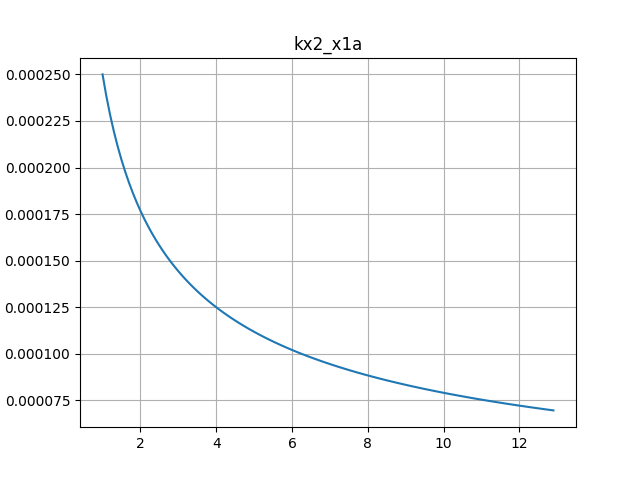
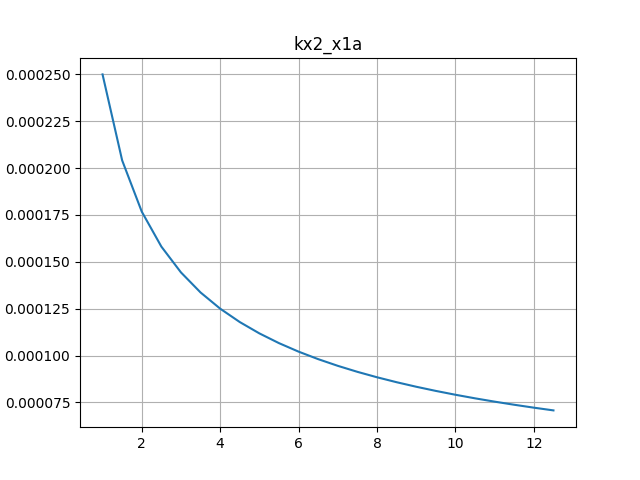
new plots

diff --git a/ode/serca_plot.py b/ode/serca_plot.py
@@ -1,12 +1,13 @@
 from scipy.integrate import *
-from scipy.optimize import *
 from matplotlib.pyplot import *
 from math import *
 import numpy as np
 
-
 cai = 100.0e-9
 cae = 1.0e-6
+
+def f(m):
+	return m**(2.0/3.0) #multiplier 
 
 # Reaction Rates
 k_orig={
@@ -15,19 +16,17 @@ k_orig={
 	'kx1a_x1' : 83.666,
 	'kx2_x1a' : 2*83.666,
 	'kx2_y2' : 0.6,
-	'ky2_x2' : 4.118,
+	'ky2_x2' : 4.118, #corrected
 	'ky2_y1a' : 2*30.015,
 	'ky1a_y1' : 30.015,
 	'ky1a_y2' : 1.0e5,
 	'ky1_y1a' : 2*1.0e5,
 	'ky1_x1' : 0.4,
-	'kx1_y1' : 1.20e-3
+	'kx1_y1' : 1.20e-3,
+	'kca' : 0#40.45 #update
 }
 k=k_orig.copy()
 
-#modification in reaction rates
-#kx2_y2=0.6
-#ky2_x2=4.118
 
 # Volume Normalisations
 vol_er = (3.9*0.1*0.1)
@@ -39,11 +38,11 @@ fvol_cyt = vol_cyt/vol_tot
 fvol_er = vol_er/vol_tot
 
 # SERCA ODE model
-def serca_ode(v,t):
+def serca_ode(v ,t):
 	fx1, fx1a, fx2,	fy1, fy1a, fy2, cae = v 
 	for key in k.keys():
 		exec(key + " = "+str(k[key]))
-	
+
 	dx1 = fx1*(-kx1_x1a*cai-kx1_y1)+fx1a*kx1a_x1+fy1*ky1_x1
 	dx1a = fx1a*(-kx1a_x2*cai-kx1a_x1)+fx1*cai*kx1_x1a+fx2*kx2_x1a
 	dx2 = fx2*(-kx2_y2-kx2_x1a)+fx1a*cai*kx1a_x2+fy2*ky2_x2
@@ -52,7 +51,7 @@ def serca_ode(v,t):
 	dy1a = fy1a*(-ky1a_y2*cae-ky1a_y1)+fy1*cae*ky1_y1a+fy2*ky2_y1a
 	dy2 = fy2*(-ky2_x2-ky2_y1a)+fy1a*cae*ky1a_y2+fx2*kx2_y2
 	
-	dcae = -cae*(fy1a*ky1a_y2 + fy1*ky1_y1a) + (fy1a*ky1a_y1 + fy2*ky2_y1a)
+	dcae = -cae*(fy1a*ky1a_y2 + fy1*ky1_y1a) + (fy1a*ky1a_y1 + fy2*ky2_y1a) + kca*(cai - cae)
 	#print dcae
 
 	return [dx1, dx1a, dx2, dy1, dy1a, dy2, dcae]
@@ -60,53 +59,15 @@ def serca_ode(v,t):
 # Initial Conditions
 #v0 = [0.75554529, 0.18054556, 0.010757505, 0.015718635, 0.026363904, 0.011069105, cae]
 #v0 = [0.79150804, 0.18920662, 0.011307258, 0.0023747239, 0.0039558979, 0.0016474684, cae]
-v0 = [0.4, 0.1, 0.0, 0.4, 0.1, 0.0, cae]
+v0 = [1, 0, 0.0, 0, 0, 0.0, cae]
 
-tstep = 1e-2
-tf = 100
-t = np.arange(0, tf, tstep)
+tstep = 1e-3
+tf = 1
+t = np.linspace(0, tf, tf/tstep+1)
 
 # Solve ODE
-
-f_range = np.arange(1,13,0.5)
-
-for par in k.keys():
-	eq_cae=[]
-    	k=k_orig.copy()
-    	for f in f_range:
-		k[par]=f*k_orig[par]
-		sol = odeint(serca_ode, v0, t)
-		print f,sol[-1,-1]
-		#print k
-		eq_cae.append(sol[-1,-1])
-	print np.shape(eq_cae), np.shape(f_range)
-	grid(True)
-	plot(f_range,eq_cae)
-	title(par)
-	savefig("./plots/"+par+".png")
-	close()
-
-	
-
-#main stuff 
-'''
-def func_tbs(f,eq_value):
-	print f[0]
-	k['kx2_y2']=f[0]*k_orig['kx2_y2']
-	sol = odeint(serca_ode, v0, t)
-	return sol[-1,-1]-eq_value
-
-SOL=fsolve(func_tbs,3.0,args=(5.0e-4,))
-
-'''
-'''	
-k['kx1a_x2']=3.0*k_orig['kx1a_x2']
 sol = odeint(serca_ode, v0, t)
-print 3.0,sol[-1,-1]
-print k
-plot(sol[:,-1])
-show()	
-	
+'''
 # calculate cae_ss, steady-state ER calcium at zero flux through pump
 # from Higgins et al., 2006 p.155
 K1 = sqrt((kx2_x1a*kx1a_x1)/(kx1_x1a*kx1a_x2))
@@ -117,18 +78,25 @@ K4 = kx1_y1/ky1_x1
 #print(K1**2*K2*K3**2*K4)
 cae_ss = cai/(K1*K3*sqrt(K2*K4))
 print("cae_ss = %g" %(cae_ss))
-print 'aaa'
 
 '''
-'''
-for i in range(6):
-	plot(t,sol[:,i])
-show()
+state_label=['x0','x1','x2','y0','y1','y2']
+case_label=['ER Normal','ER Overload(x2)','ER Overload(x3)']
+state_colors=['y','r','b','y']
+case_line=['-','--','-.']
+for m in [0,1,2]:
+	for par in ['kx1_x1a','kx1a_x2','kx2_y2']:
+		k[par]=f(m+1)*k_orig[par]
+	sol = odeint(serca_ode, v0, t)	
+	for i in [3,4,5]:
+		plot(t,sol[:,i],label=state_label[i]+':'+case_label[m],color=state_colors[i-3],ls=case_line[m])
+legend(loc='upper right')
+title("Serca Dynamics: y0, y1, y2")
+xlabel("Time (s)")
+ylabel("State fraction of SERCA")
+savefig('./plots/y0y1y2.png',dpi=200)
 close()
-'''
-#sol = odeint(serca_ode, v0, t)
+
 #grid(True)
 #plot(t,sol[:,6])
 #show()
-
-

diff --git a/ode/serca.py b/ode/serca.py
@@ -9,25 +9,22 @@ cae = 1.0e-6
 f=3.0**(2.0/3.0) #multiplier 
 
 # Reaction Rates
-kx1_x1a=2*1.0e8*f
-kx1a_x2=1.0e8*f
-kx1a_x1=83.666
-kx2_x1a=2*83.666
-kx2_y2=0.6*f
-ky2_x2=0.097
-ky2_y1a=2*30.015
-ky1a_y1=30.015
-ky1a_y2=1.0e5
-ky1_y1a=2*1.0e5
-ky1_x1=0.4
-kx1_y1=1.20e-3
-
-
-#modification in reaction rates
-
-ky2_x2=4.118
-kca = 40.45
-
+k_orig={
+	'kx1_x1a' : 2*1.0e8,
+	'kx1a_x2' : 1.0e8,
+	'kx1a_x1' : 83.666,
+	'kx2_x1a' : 2*83.666,
+	'kx2_y2' : 0.6,
+	'ky2_x2' : 4.118, #corrected
+	'ky2_y1a' : 2*30.015,
+	'ky1a_y1' : 30.015,
+	'ky1a_y2' : 1.0e5,
+	'ky1_y1a' : 2*1.0e5,
+	'ky1_x1' : 0.4,
+	'kx1_y1' : 1.20e-3,
+	'kca' : 0#40.45 #update
+}
+k=k_orig.copy()
 
 
 # Volume Normalisations
@@ -42,7 +39,9 @@ fvol_er = vol_er/vol_tot
 # SERCA ODE model
 def serca_ode(v ,t):
 	fx1, fx1a, fx2,	fy1, fy1a, fy2, cae = v 
-	
+	for key in k.keys():
+		exec(key + " = "+str(k[key]))
+
 	dx1 = fx1*(-kx1_x1a*cai-kx1_y1)+fx1a*kx1a_x1+fy1*ky1_x1
 	dx1a = fx1a*(-kx1a_x2*cai-kx1a_x1)+fx1*cai*kx1_x1a+fx2*kx2_x1a
 	dx2 = fx2*(-kx2_y2-kx2_x1a)+fx1a*cai*kx1a_x2+fy2*ky2_x2
@@ -61,8 +60,8 @@ def serca_ode(v ,t):
 #v0 = [0.79150804, 0.18920662, 0.011307258, 0.0023747239, 0.0039558979, 0.0016474684, cae]
 v0 = [1, 0, 0.0, 0, 0, 0.0, cae]
 
-tstep = 1e-2
-tf = 100
+tstep = 1e-3
+tf = 1
 t = np.linspace(0, tf, tf/tstep+1)
 
 # Solve ODE
@@ -78,14 +77,28 @@ K4 = kx1_y1/ky1_x1
 #print(K1**2*K2*K3**2*K4)
 cae_ss = cai/(K1*K3*sqrt(K2*K4))
 print("cae_ss = %g" %(cae_ss))
-
 '''
-#for i in range(6):
-	#plot(t,sol[:,i])
-#show()
-
-#close()
-
-grid(True)
-plot(t,sol[:,6])
+state_label=['x0','x1','x2','y0','y1','y2']
+for i in range(6):
+	plot(t,sol[:,i],label=state_label[i])
+legend()
 show()
+'''
+state_label=['x0','x1','x2','y0','y1','y2']
+case_label=['ER Normal','ER Overload(x2)','ER Overload(x3)']
+state_colors=['b','y']
+case_lines=['-','--','.']
+for m in [1,2,3]:
+	for par in ['kx1_x1a','kx1a_x2','kx2_y2':]
+		k[par]=f*k_orig[par]
+	sol = odeint(serca_ode, v0, t)	
+	for i in [0,1]:
+		plot(t,sol[:,i],label=state_label[i],color=colors[i],linestyle=case_lines[m])
+	legend()
+title("Serca Dynamics: x0 and x1")
+savefig('./plots/x0andx1.png')
+close()
+#'''
+#grid(True)
+#plot(t,sol[:,6])
+#show()
